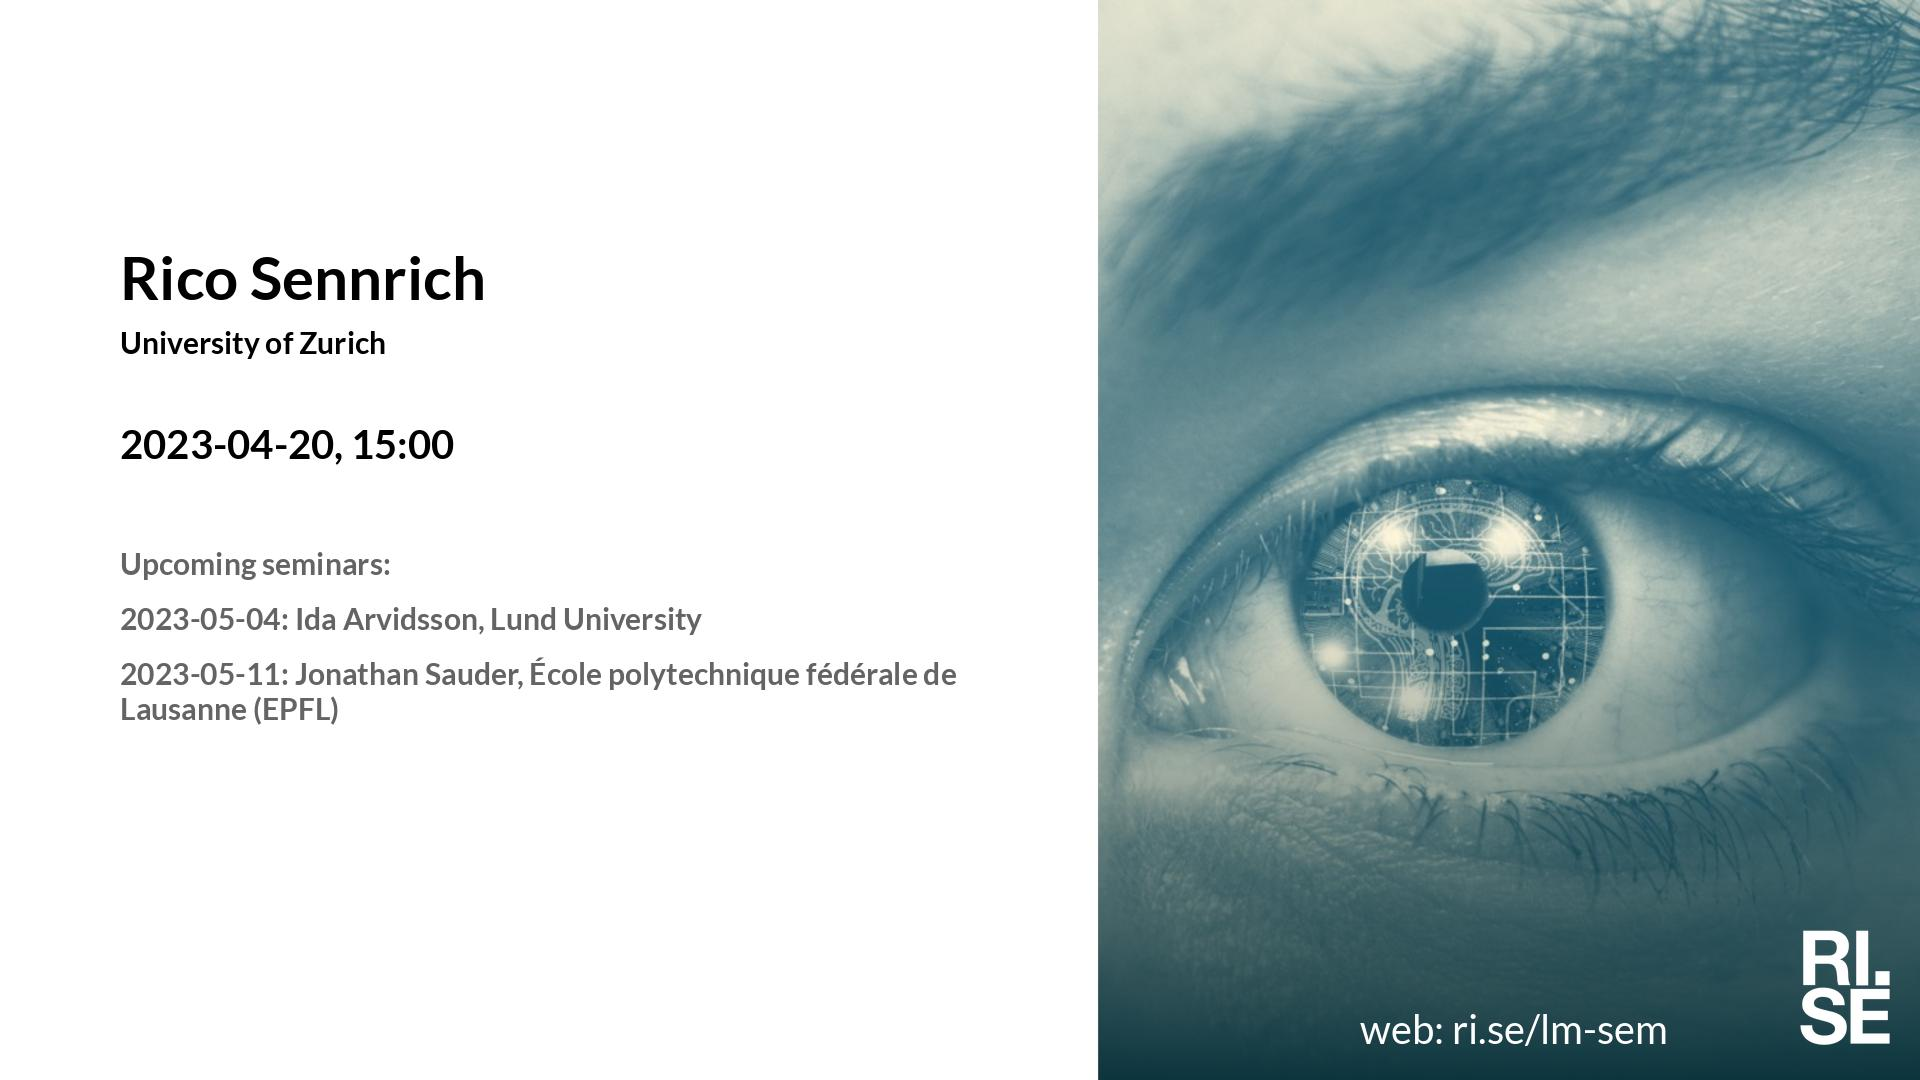
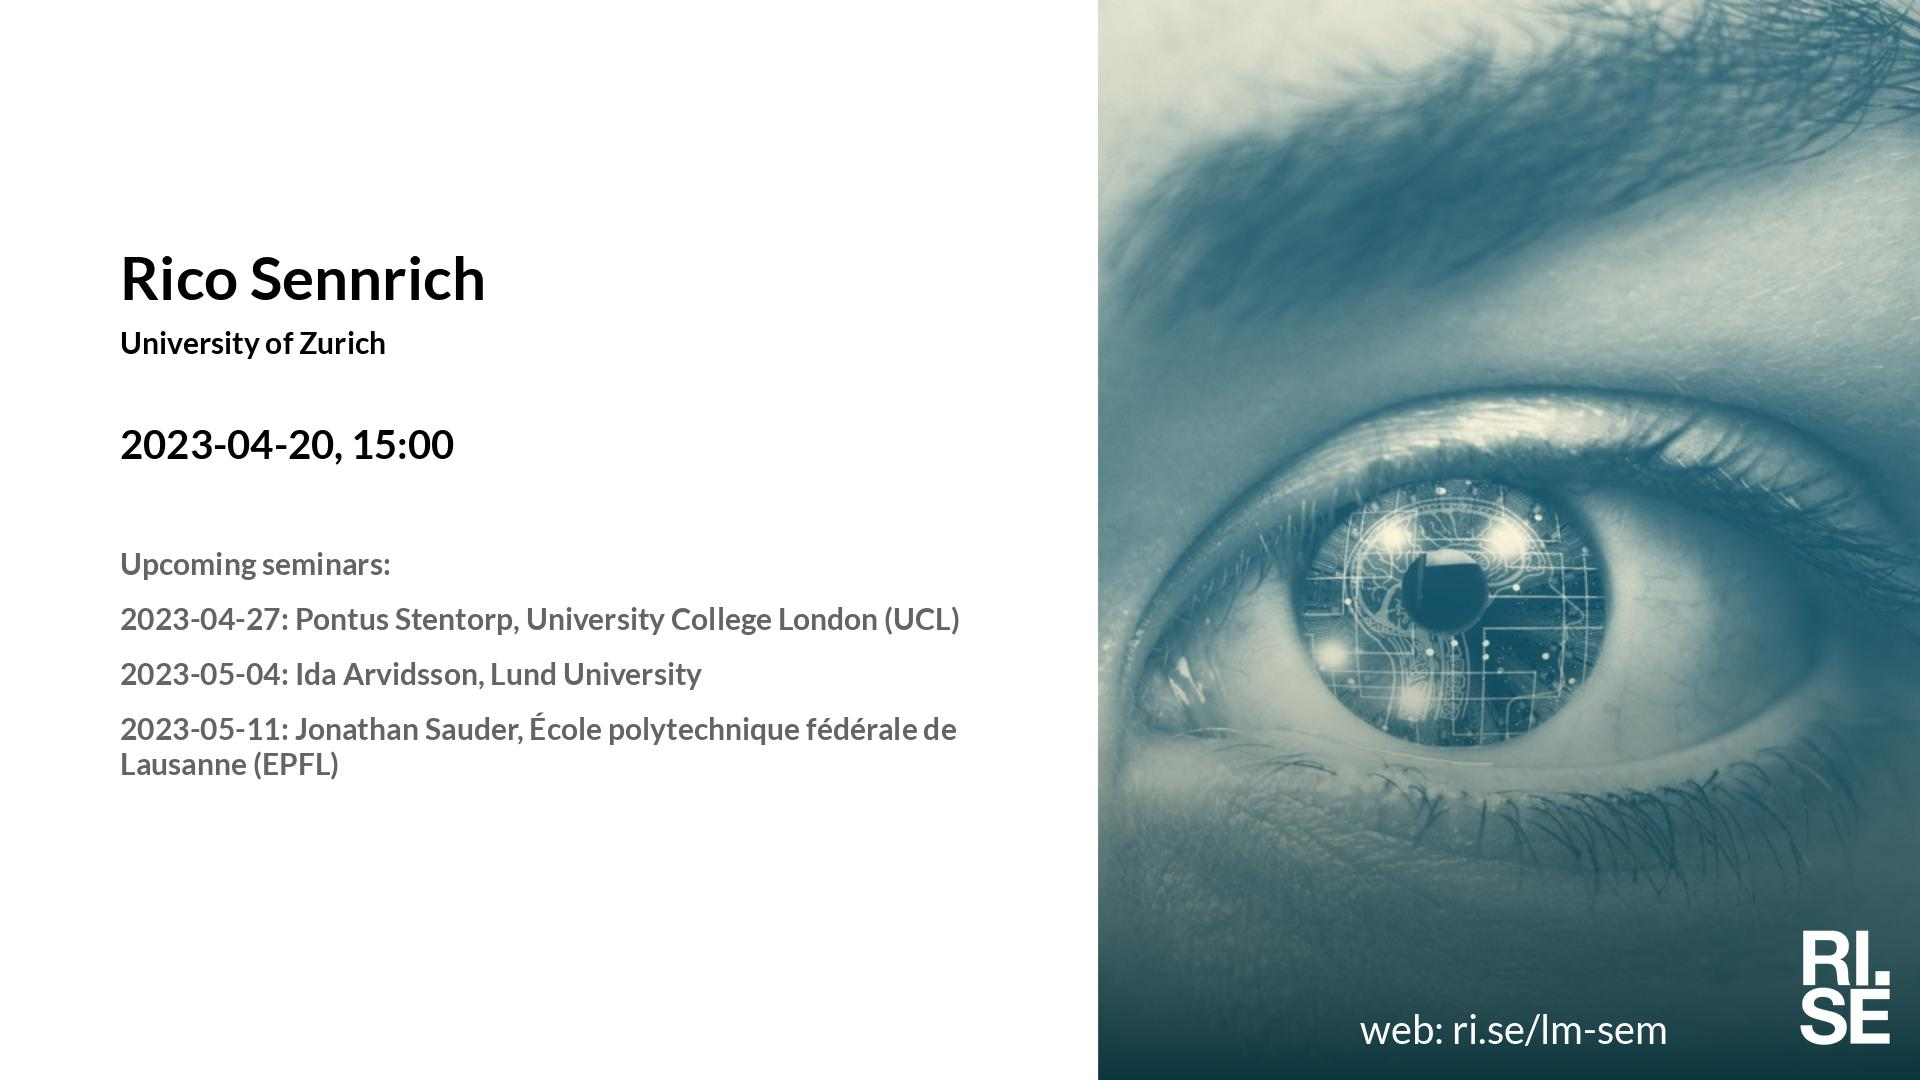
Updated plan on web site.

Changed region(s): [[0.0625, 0.6111, 0.5, 0.7333], [0.125, 0.55, 0.5, 0.5806]]

diff --git a/lm/index.md b/lm/index.md
@@ -18,7 +18,7 @@ table {border-collapse: collapse;}
 | <span style="color:red"> 2023-04-06 </span> | <span style="color:red"> Påsklov/Skärtorsdag </span> | <span style="color:red">  </span> | <span style="color:red">  </span> | <span style="color:red">  </span> | <span style="color:red">  </span> | <span style="color:red"> CANCELLED </span> |
 |  2023-04-13  |  [Elijah Cole, Caltech](2023-04-13.md)  |  [photo](photo-elijah-cole.jpg)  |  [social media ](social-media-elijah-cole.jpg)  |  [meeting backdrop ](meeting-backdrop-elijah-cole.jpg)  |  [youtube thumbnail ](youtube-thumbnail-elijah-cole.jpg)  |  S~~TAB~~P  |
 |  2023-04-20  |  [Rico Sennrich, University of Zurich](2023-04-20.md)  |  [photo](photo-rico-sennrich.jpg)  |  [social media ](social-media-rico-sennrich.jpg)  |  [meeting backdrop ](meeting-backdrop-rico-sennrich.jpg)  |  [youtube thumbnail ](youtube-thumbnail-rico-sennrich.jpg)  |  S~~TAB~~P  |
-| <span style="color:purple"> 2023-04-27 </span> | <span style="color:purple"> *Up for grabs!!!* </span> | <span style="color:purple">  </span> | <span style="color:purple">  </span> | <span style="color:purple">  </span> | <span style="color:purple">  </span> | <span style="color:purple"> ~~S~~TAB~~P~~ </span> |
+|  2023-04-27  |  [Pontus Stentorp, University College London (UCL)](2023-04-27.md)  |    |  [social media ](social-media-pontus-stentorp.jpg)  |  [meeting backdrop ](meeting-backdrop-pontus-stentorp.jpg)  |  [youtube thumbnail ](youtube-thumbnail-pontus-stentorp.jpg)  |  STAB~~P~~  |
 |  2023-05-04  |  [Ida Arvidsson, Lund University](2023-05-04.md)  |    |  [social media ](social-media-ida-arvidsson.jpg)  |  [meeting backdrop ](meeting-backdrop-ida-arvidsson.jpg)  |  [youtube thumbnail ](youtube-thumbnail-ida-arvidsson.jpg)  |  S~~TABP~~  |
 |  2023-05-11  |  [Jonathan Sauder, École polytechnique fédérale de Lausanne (EPFL)](2023-05-11.md)  |    |  [social media ](social-media-jonathan-sauder.jpg)  |  [meeting backdrop ](meeting-backdrop-jonathan-sauder.jpg)  |  [youtube thumbnail ](youtube-thumbnail-jonathan-sauder.jpg)  |  ST~~ABP~~  |
 | <span style="color:red"> 2023-05-18 </span> | <span style="color:red"> Kristi-himmelsfärd </span> | <span style="color:red">  </span> | <span style="color:red">  </span> | <span style="color:red">  </span> | <span style="color:red">  </span> | <span style="color:red"> CANCELLED </span> |

diff --git a/lm/2023-04-27.md b/lm/2023-04-27.md
@@ -4,22 +4,20 @@ metatags: "<meta name=\"robots\" content=\"noindex,nofollow\" />"
 ---
 Welcome to this week's Learning Machines seminar.
 
-**Title:** 
+**Title:** title
 
-**Speaker:** Elijah Cole, Caltech
+**Speaker:** Pontus Stentorp, University College London (UCL)
 
-**Abstract:** 
+**Abstract:** abstract
 
-**About the speaker:** 
+**About the speaker:** bio
 
 **Location:** This is an online seminar. Connect using Zoom.
 
-**Zoom link:** [https://rise.zoom.us/j/208117140?pwd=K3Z5SzNmL3ZYZDlyRUZSK2hDa0hhdz09](https://rise.zoom.us/j/208117140?pwd=K3Z5SzNmL3ZYZDlyRUZSK2hDa0hhdz09)
+**Zoom link:** [meetinglink](meetinglink)
 
 **Upcoming seminars:**
 
-* 2023-04-20: Rico Sennrich, University of Zurich
-* 2023-04-27: Pontus Stentorp, University College London (UCL)
 * 2023-05-04: Ida Arvidsson, Lund University
 * 2023-05-11: Jonathan Sauder, École polytechnique fédérale de Lausanne (EPFL)
 

diff --git a/lm/2023-04-20.md b/lm/2023-04-20.md
@@ -18,6 +18,7 @@ Welcome to this week's Learning Machines seminar.
 
 **Upcoming seminars:**
 
+* 2023-04-27: Pontus Stentorp, University College London (UCL)
 * 2023-05-04: Ida Arvidsson, Lund University
 * 2023-05-11: Jonathan Sauder, École polytechnique fédérale de Lausanne (EPFL)
 
